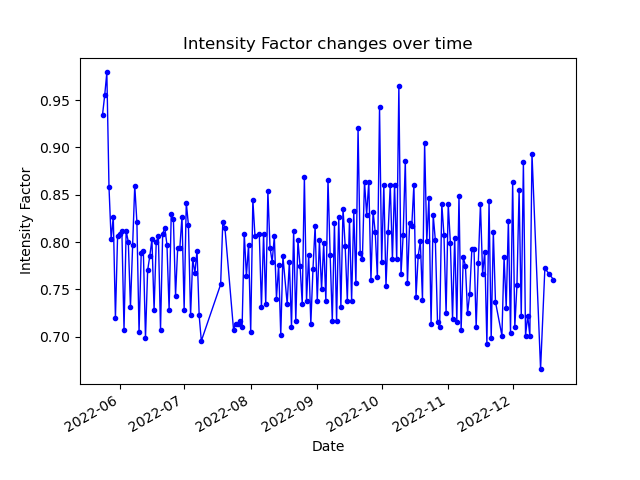
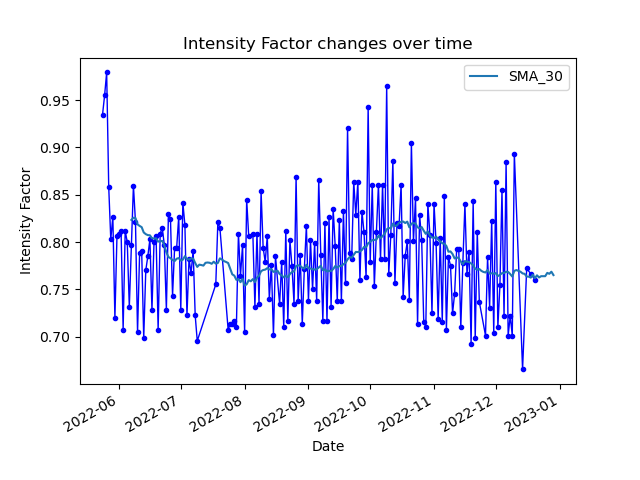
added regression page

diff --git a/templates/runstats.html b/templates/runstats.html
@@ -1,6 +1,7 @@
 {% extends 'base.html' %}
 	{% block body %}
 		<h1> Running Statistics </h1>
+		<h3> <a href="/"class="button">HOME</a></h3>
 		<div class="parent">
 			<div>
 				<img src={{url_for('static',filename="GARMIN Average HR (bpm) changes over time.png")}} />
@@ -10,6 +11,9 @@
 			</div>
 			<div>
 				<img src={{url_for('static',filename= "Pace (min per mile) Comparison by run type.png")}} />
+			</div>
+			<div>
+				<img src={{url_for('static',filename= "regression.png")}} />
 			</div>
 		</div>
 		<h3> <a href="/"class="button">HOME</a></h3>

diff --git a/templates/regression.html b/templates/regression.html
@@ -1,0 +1,15 @@
+{% extends 'base.html' %}
+	{% block body %}
+		<h1> Regression </h1>
+		<h3> <a href="/"class="button">HOME</a></h3>
+		<div class="parent">
+			<div>
+				<img src={{url_for('static',filename="GARMIN Average HR (bpm) versus Average Cadence (spm).png")}} />
+			</div>
+			<div>
+				<img src={{url_for('static',filename="GARMIN Average HR (bpm) versus Average Power (W).png")}} />
+			</div>
+		</div>
+		<h3> <a href="/"class="button">HOME</a></h3>
+	{% endblock %}
+

diff --git a/templates/index.html b/templates/index.html
@@ -5,4 +5,5 @@
 		<h3> <a href="/weight"class="btn btn-primary btn-lg">Weight</a></h3>
 		<h3> <a href="/power"class="btn btn-primary btn-lg">Power</a></h3>
 		<h3> <a href="/recovery"class="btn btn-primary btn-lg">Recovery</a></h3>
+		<h3> <a href="/regression"class="btn btn-primary btn-lg">Regression</a></h3>
 	{% endblock %}

diff --git a/templates/weight.html b/templates/weight.html
@@ -1,6 +1,7 @@
 {% extends 'base.html' %}
 	{% block body %}
 		<h1> Weight </h1>
+		<h3> <a href="/"class="button">HOME</a></h3>
 		<div class="parent">
 			<div>
 				<img src={{url_for('static',filename="Weight (pounds) Year-Over-Year Comparison.png")}} />

diff --git a/templates/power.html b/templates/power.html
@@ -1,6 +1,7 @@
 {% extends 'base.html' %}
 	{% block body %}
 		<h1> Power </h1>
+		<h3> <a href="/"class="button">HOME</a></h3>
 		<div class="parent">
 			<div>
 				<img src={{url_for('static', filename="Average Power (W) changes over time.png")}} />	

diff --git a/templates/recovery.html b/templates/recovery.html
@@ -1,6 +1,7 @@
 {% extends 'base.html' %}
 	{% block body %}
 		<h1> Recovery </h1>
+		<h3> <a href="/"class="button">HOME</a></h3>
 		<div class="parent">
 			<div>
 				<img src={{url_for('static',filename="HRV Year-Over-Year Comparison.png")}} />

diff --git a/static/style.css b/static/style.css
@@ -1,6 +1,6 @@
 body{
-        background: blue;
-        color: yellow;
+        background: Black;
+        color: SeaGreen;
         padding:1%
 
 		img { padding: 0; margin: 0; }

diff --git a/regression.py b/regression.py
@@ -2,52 +2,34 @@
 
 import pandas as pd
 import matplotlib.pyplot as plt
-import numpy as np
 import load
+import os
+import data_manipulations
+import plot
+import numpy as np
+from sklearn.linear_model import LinearRegression
 
 
 def main():
-	''' main function for testing'''
+	''' Load dataframe from csv file'''
 
-	df = load.to_df('trainingLog.csv')
-
-	df = convert_pace(df)
+	filename = 'trainingLog.csv'
 	
+	df = load.to_df(filename)
+
+	variable1 = 'Average Power (W)'
+	variable2 = 'GARMIN Average HR (bpm)'
+
+	two_variable_correlation(df, variable1, variable2)
+
 	return
-
-
-def filter_dates(df, start, end):
-	''' Selects a range of dates based on user input'''
-
-	df = df.loc[start:end]
-
-	return df
-
-
-def select_run_type(df, run_type):
-	''' select specific type of run only from dataframe'''
-
-	df = df.loc[df['Run type'].isin(run_type)]
-
-	return(df)
-
-
-def convert_pace(df):
-	''' converts 0:8:30 min/mile to 8.5 min/mile'''
-
-	df['datetime'] = pd.to_datetime(df['Average Pace (min/mile)'])
-	df['minutes'] = df['datetime'].dt.minute
-	df['seconds'] = (df['datetime'].dt.second)/60
-	df['Pace (min per mile)'] = round(df['minutes'] + df['seconds'], 2)
-
-	return df
 
 
 def two_variable_correlation(df, variable1, variable2):
 	''' Plots one variable versus another to test correlation'''
 
 	# Exclude outliers in the 1% range
-	q1 = df[variable1].quantile(0.9)
+	q1 = df[variable1].quantile(0.99)
 	df = df[df[variable1] < q1]
 
 	q2 = df[variable2].quantile(0.99)
@@ -72,11 +54,10 @@ def two_variable_correlation(df, variable1, variable2):
 	
 	plt.plot(prediction_space, y_pred, color='red', linewidth=1)
 	plt.title(variable2 + ' versus ' + variable1 + ', r^2=' + str(round(r2,2)))
-	plt.savefig("/home/ocros03/Website/static/regression.png")
+	plt.savefig("/home/ocros03/Website/static/" + variable2 + " versus " + variable1 + ".png")
 	plt.close()
 	
 	return
-
 
 if __name__ == '__main__':
 	main()

diff --git a/plot.py b/plot.py
@@ -41,6 +41,15 @@ def single_variable_time_series(df, variable, color):
 
 	df[variable].dropna().plot(marker='.', linewidth=1, color=color)
 
+	df['SMA_30'] = df[variable].rolling(30, min_periods=15).mean()
+	df['SMA_30'].plot(legend=True)
+
+	#plt.style.use('ggplot')
+	#plt.figure(facecolor="yellow")
+
+	#ax = plt.axes()
+	#ax.set_facecolor("violet")
+	
 	plt.title(variable + ' changes over time')
 	plt.xlabel('Date')
 	plt.ylabel(variable)

diff --git a/runstats.py b/runstats.py
@@ -19,10 +19,10 @@ def main():
 	#run_type = "Recovery"
 	#df = data_manipulations.select_run_type(df, [run_type])
 
-	#hr(df)
+	hr(df)
 	#pace(df)
-	pace_by_run_type(df)
-
+	#pace_by_run_type(df)
+	
 	return
 
 
@@ -75,6 +75,7 @@ def pace_by_run_type(df):
 	plt.close()
 
 	return
+
 
 if __name__ == '__main__':
 	main()

diff --git a/app.py b/app.py
@@ -31,9 +31,9 @@ def power():
 def recovery():
 	return render_template('recovery.html')
 
-@app.route('/css')
-def css():
-	return render_template('css.html')
+@app.route('/regression')
+def regression():
+	return render_template('regression.html')
 
 # No caching at all for API endpoints.
 @app.after_request
